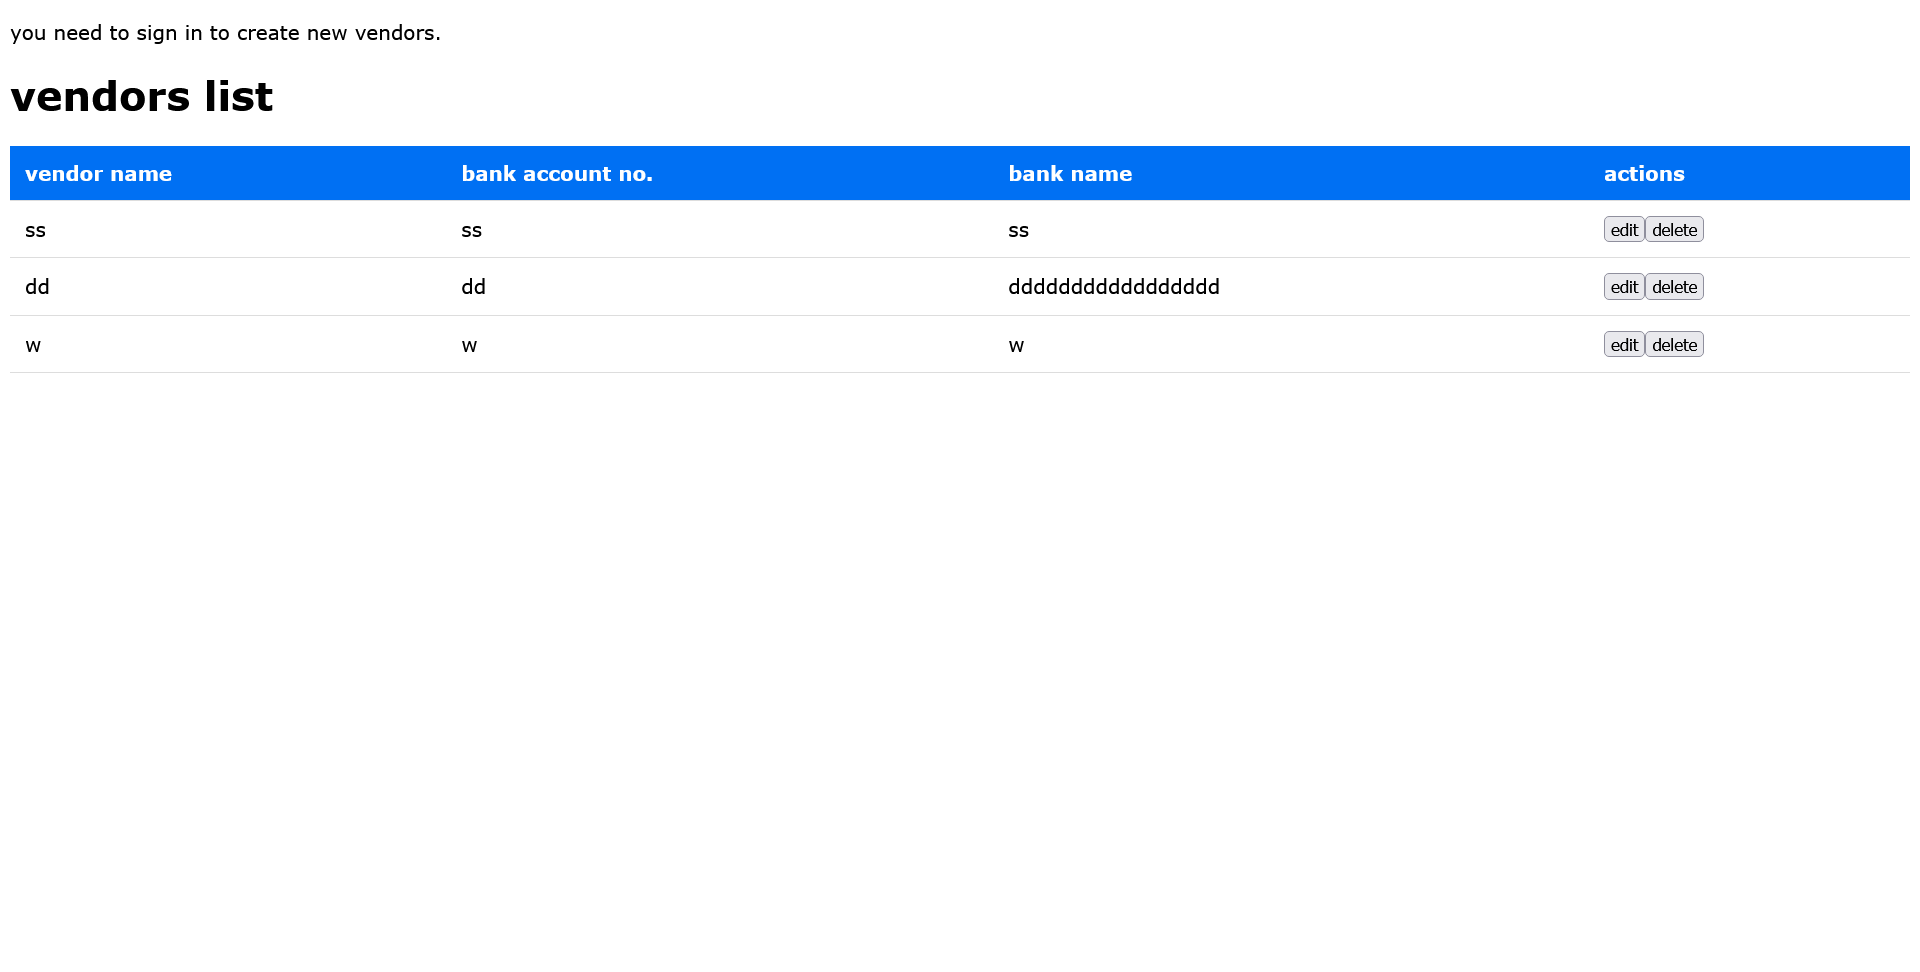
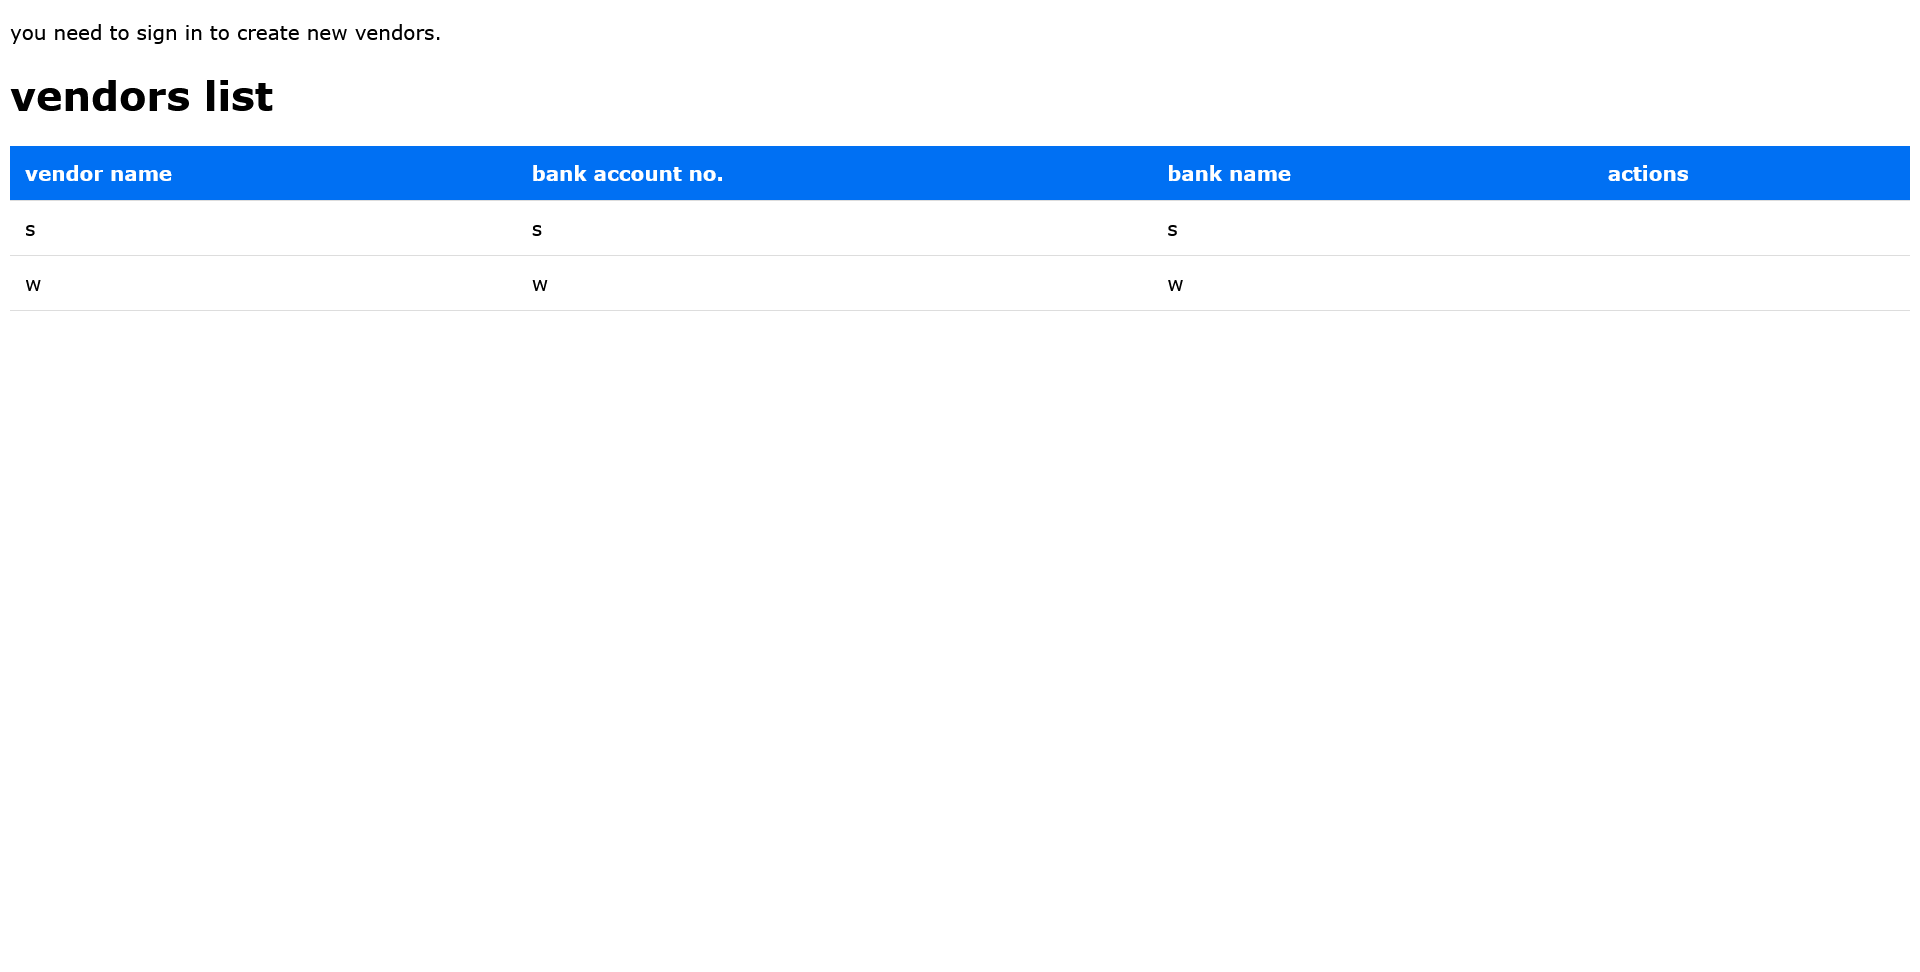
some changes

diff --git a/src/app/vendors/page.js b/src/app/vendors/page.js
@@ -48,21 +48,25 @@ export default function VendorsPage() {
               <td>{vendor.bankAccountNo}</td>
               <td>{vendor.bankName}</td>
               <td>
-                <button onClick={() => router.push(`/vendors/edit?id=${vendor._id}`)}>edit</button>
-                <button
-                  onClick={async () => {
-                    if (confirm("do you really want to delete this vendor?")) {
-                      await fetch("/api/vendors", {
-                        method: "DELETE",
-                        body: JSON.stringify({ _id: vendor._id }),
-                        headers: { "Content-Type": "application/json" },
-                      });
-                      fetchVendors();
-                    }
-                  }}
-                >
-                  delete
-                </button>
+                {session && (
+                  <>
+                    <button onClick={() => router.push(`/vendors/edit?id=${vendor._id}`)}>edit</button>
+                    <button
+                      onClick={async () => {
+                        if (confirm("do you really want to delete this vendor?")) {
+                          await fetch("/api/vendors", {
+                            method: "DELETE",
+                            body: JSON.stringify({ _id: vendor._id }),
+                            headers: { "Content-Type": "application/json" },
+                          });
+                          fetchVendors();
+                        }
+                      }}
+                    >
+                      delete
+                    </button>
+                  </>
+                )}
               </td>
             </tr>
           ))}
